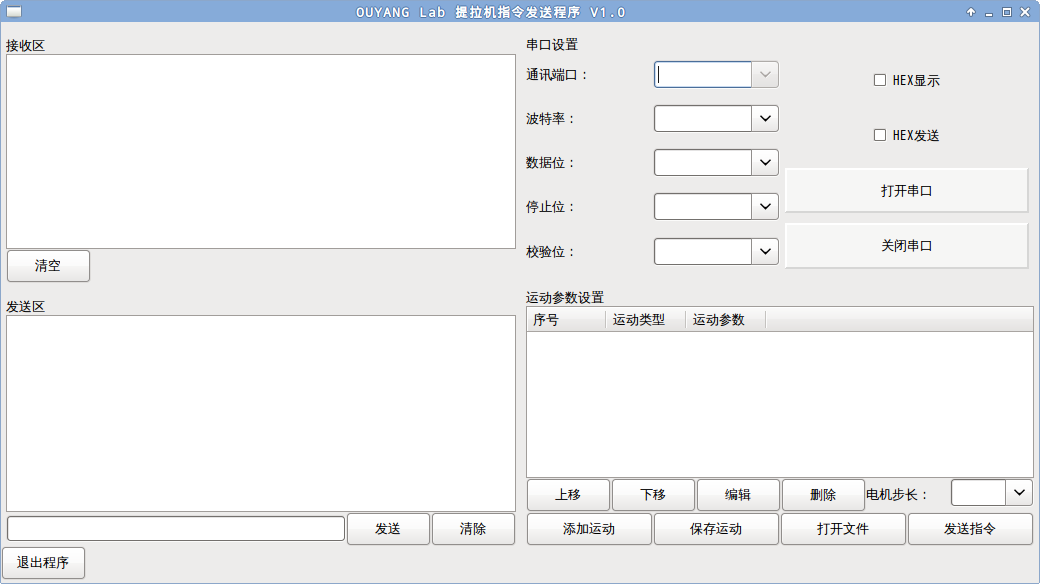
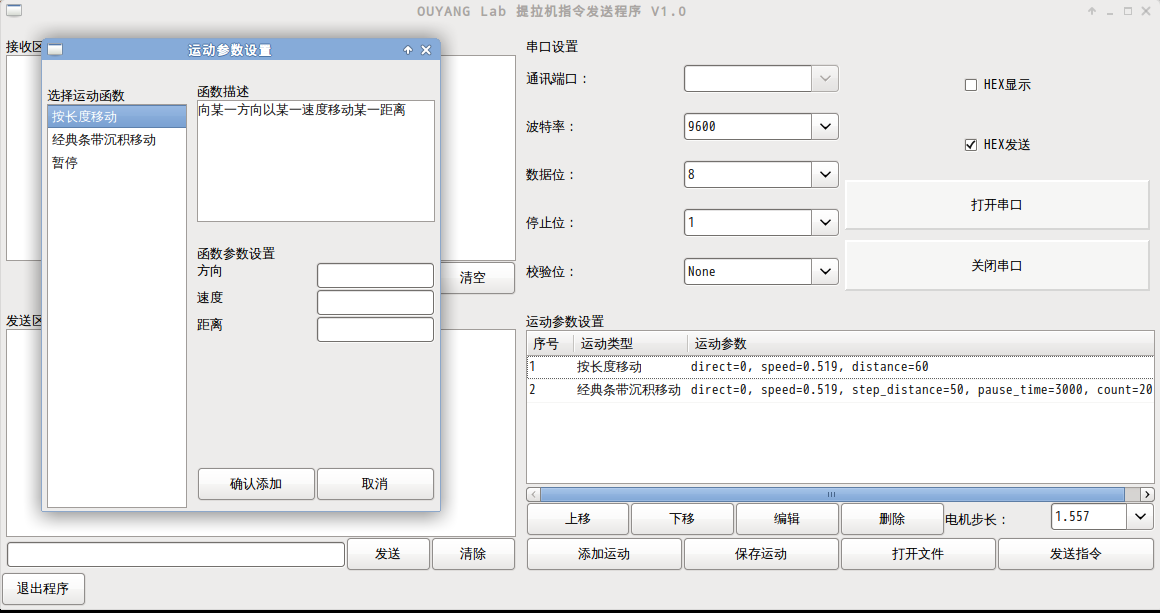
Update files.

diff --git a/gpserial.py b/gpserial.py
@@ -65,19 +65,22 @@ class move_parameter_dialog(wx.Dialog):
         self.function_description_hbox = wx.BoxSizer(wx.HORIZONTAL)
 
         right_hbox3 = wx.BoxSizer(wx.HORIZONTAL)
-        right_hbox3.Add(self.parameter_setting_title, 0, wx.ALIGN_BOTTOM)
+        right_hbox3.Add(self.parameter_setting_title, 1, wx.ALIGN_BOTTOM)
 
         self.parameter_vbox = wx.BoxSizer(wx.VERTICAL)
 
+        right_hbox4 = wx.BoxSizer(wx.HORIZONTAL)
+        right_hbox4.Add(self.parameter_vbox, 1, wx.EXPAND)
+
         right_hbox5 = wx.BoxSizer(wx.HORIZONTAL)
-        right_hbox5.Add(self.ok_button, 1)
-        right_hbox5.Add(self.cancel_button, 1)
+        right_hbox5.Add(self.ok_button, 1, wx.ALIGN_BOTTOM)
+        right_hbox5.Add(self.cancel_button, 1, wx.ALIGN_BOTTOM)
 
         right_vbox = wx.BoxSizer(wx.VERTICAL)
-        right_vbox.Add(right_hbox1, 1)
-        right_vbox.Add(self.function_description_hbox, 3, wx.EXPAND)
-        right_vbox.Add(right_hbox3, 1)
-        right_vbox.Add(self.parameter_vbox, 5, wx.EXPAND)
+        right_vbox.Add(right_hbox1, 1, wx.EXPAND)
+        right_vbox.Add(self.function_description_hbox, 2, wx.EXPAND)
+        right_vbox.Add(right_hbox3, 1, wx.EXPAND)
+        right_vbox.Add(right_hbox4, 5, wx.EXPAND)
         right_vbox.Add(right_hbox5, 1, wx.EXPAND)
 
         main_hbox = wx.BoxSizer(wx.HORIZONTAL)
@@ -122,12 +125,12 @@ class move_parameter_dialog(wx.Dialog):
 
         for parameter_dict in self.parameter_list:
             self.parameter_hbox = wx.BoxSizer(wx.HORIZONTAL)
-            self.parameter_hbox.Add(parameter_dict['title'], 1)
-            self.parameter_hbox.Add(parameter_dict['input'], 1)
+            self.parameter_hbox.Add(parameter_dict['title'], 1, wx.ALIGN_CENTER_VERTICAL)
+            self.parameter_hbox.Add(parameter_dict['input'], 1, wx.ALIGN_CENTER_VERTICAL)
 
             self.parameter_vbox.Add(self.parameter_hbox, 0, wx.EXPAND)
 
-        #self.Fit()
+        self.Fit()
         self.Layout()
 
 
@@ -325,19 +328,22 @@ class serial_frame(wx.Frame):
         left_hbox12 = wx.BoxSizer(wx.HORIZONTAL)
         left_hbox12.Add(self.m_recieve_area, 1, wx.EXPAND)
 
+        left_vbox131 = wx.BoxSizer(wx.VERTICAL)
+        left_vbox131.Add(self.m_recieve_area_clear_button, 1, wx.ALIGN_RIGHT)
+
         left_hbox13 = wx.BoxSizer(wx.HORIZONTAL)
-        left_hbox13.Add(self.m_recieve_area_clear_button, 0)
+        left_hbox13.Add(left_vbox131, 1, wx.EXPAND)
 
         left_hbox21 = wx.BoxSizer(wx.HORIZONTAL)
-        left_hbox21.Add(self.m_send_area_title, 0, wx.ALIGN_BOTTOM)
+        left_hbox21.Add(self.m_send_area_title, 1, wx.ALIGN_BOTTOM)
 
         left_hbox22 = wx.BoxSizer(wx.HORIZONTAL)
         left_hbox22.Add(self.m_send_area, 1, wx.EXPAND)
 
         left_hbox23 = wx.BoxSizer(wx.HORIZONTAL)
         left_hbox23.Add(self.m_send_input, 4, wx.ALIGN_CENTER_VERTICAL)
-        left_hbox23.Add(self.m_send_button, 1)
-        left_hbox23.Add(self.m_send_area_clear_button, 1)
+        left_hbox23.Add(self.m_send_button, 1, wx.ALIGN_CENTER_VERTICAL)
+        left_hbox23.Add(self.m_send_area_clear_button, 1, wx.ALIGN_CENTER_VERTICAL)
 
         left_vbox = wx.BoxSizer(wx.VERTICAL)
         left_vbox.Add(left_hbox11, 1, wx.EXPAND)
@@ -349,7 +355,6 @@ class serial_frame(wx.Frame):
 
         right_hbox11 = wx.BoxSizer(wx.HORIZONTAL)
         right_hbox11.Add(self.m_serial_parameter_title, 0, wx.ALIGN_BOTTOM)
-
 
         right_vbox12111 = wx.BoxSizer(wx.VERTICAL)
         right_vbox12111.Add(self.m_serial_parameter_com_title, 0)
@@ -413,21 +418,21 @@ class serial_frame(wx.Frame):
         right_hbox21.Add(self.m_move_parameter_area_title, 0, wx.ALIGN_BOTTOM)
 
         right_hbox22 = wx.BoxSizer(wx.HORIZONTAL)
-        right_hbox22.Add(self.m_move_parameter_area, 1)
+        right_hbox22.Add(self.m_move_parameter_area, 1, wx.EXPAND)
 
         right_hbox23 = wx.BoxSizer(wx.HORIZONTAL)
-        right_hbox23.Add(self.m_move_parameter_up_button, 1)
-        right_hbox23.Add(self.m_move_parameter_down_button, 1)
-        right_hbox23.Add(self.m_move_parameter_edit_button, 1)
-        right_hbox23.Add(self.m_move_parameter_delete_button, 1)
+        right_hbox23.Add(self.m_move_parameter_up_button, 1, wx.ALIGN_CENTER_VERTICAL)
+        right_hbox23.Add(self.m_move_parameter_down_button, 1, wx.ALIGN_CENTER_VERTICAL)
+        right_hbox23.Add(self.m_move_parameter_edit_button, 1, wx.ALIGN_CENTER_VERTICAL)
+        right_hbox23.Add(self.m_move_parameter_delete_button, 1, wx.ALIGN_CENTER_VERTICAL)
         right_hbox23.Add(self.m_move_parameter_motor_step_select_title, 1, wx.ALIGN_CENTER_VERTICAL)
-        right_hbox23.Add(self.m_move_parameter_motor_step_select, 1)
+        right_hbox23.Add(self.m_move_parameter_motor_step_select, 1, wx.ALIGN_CENTER_VERTICAL)
 
         right_hbox24 = wx.BoxSizer(wx.HORIZONTAL)
-        right_hbox24.Add(self.m_move_parameter_add_button, 1)
-        right_hbox24.Add(self.m_move_parameter_save_button, 1)
-        right_hbox24.Add(self.m_move_parameter_load_button, 1)
-        right_hbox24.Add(self.m_move_parameter_send_button, 1)
+        right_hbox24.Add(self.m_move_parameter_add_button, 1, wx.ALIGN_CENTER_VERTICAL)
+        right_hbox24.Add(self.m_move_parameter_save_button, 1, wx.ALIGN_CENTER_VERTICAL)
+        right_hbox24.Add(self.m_move_parameter_load_button, 1, wx.ALIGN_CENTER_VERTICAL)
+        right_hbox24.Add(self.m_move_parameter_send_button, 1, wx.ALIGN_CENTER_VERTICAL)
 
 
         right_vbox = wx.BoxSizer(wx.VERTICAL)
